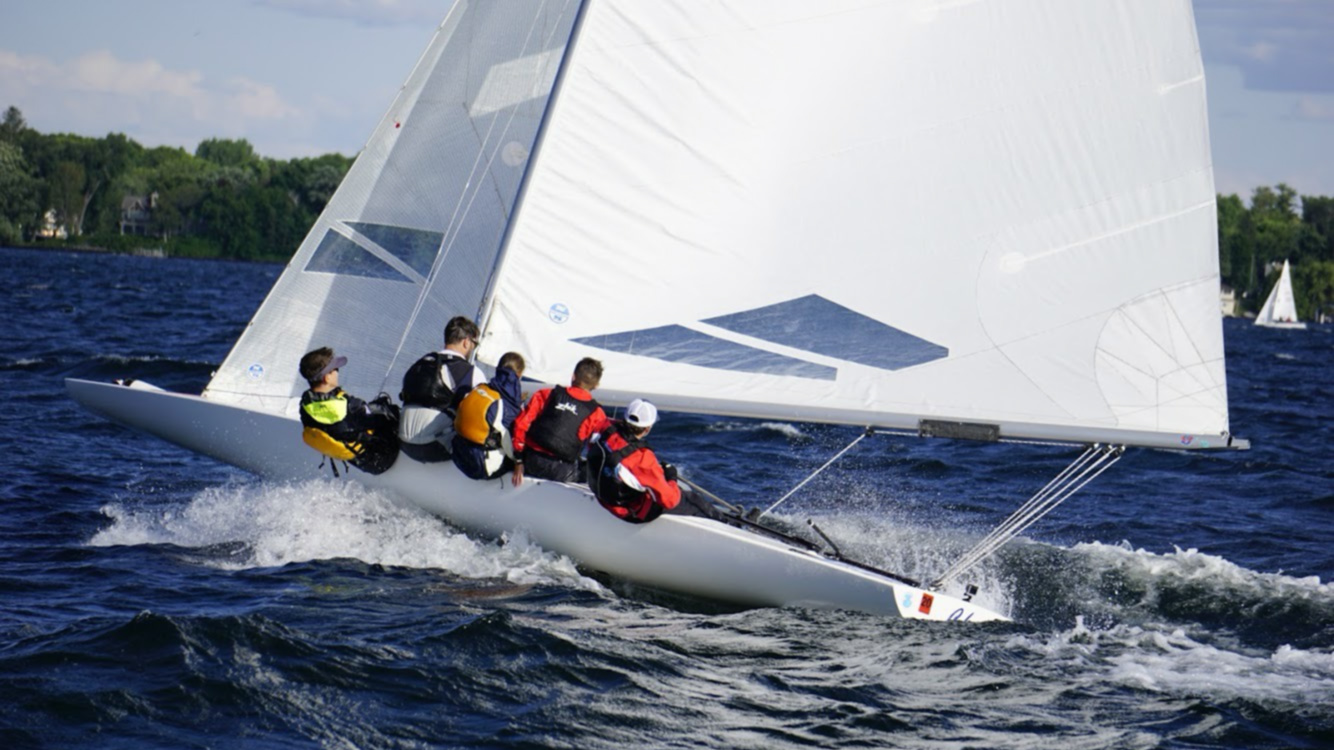
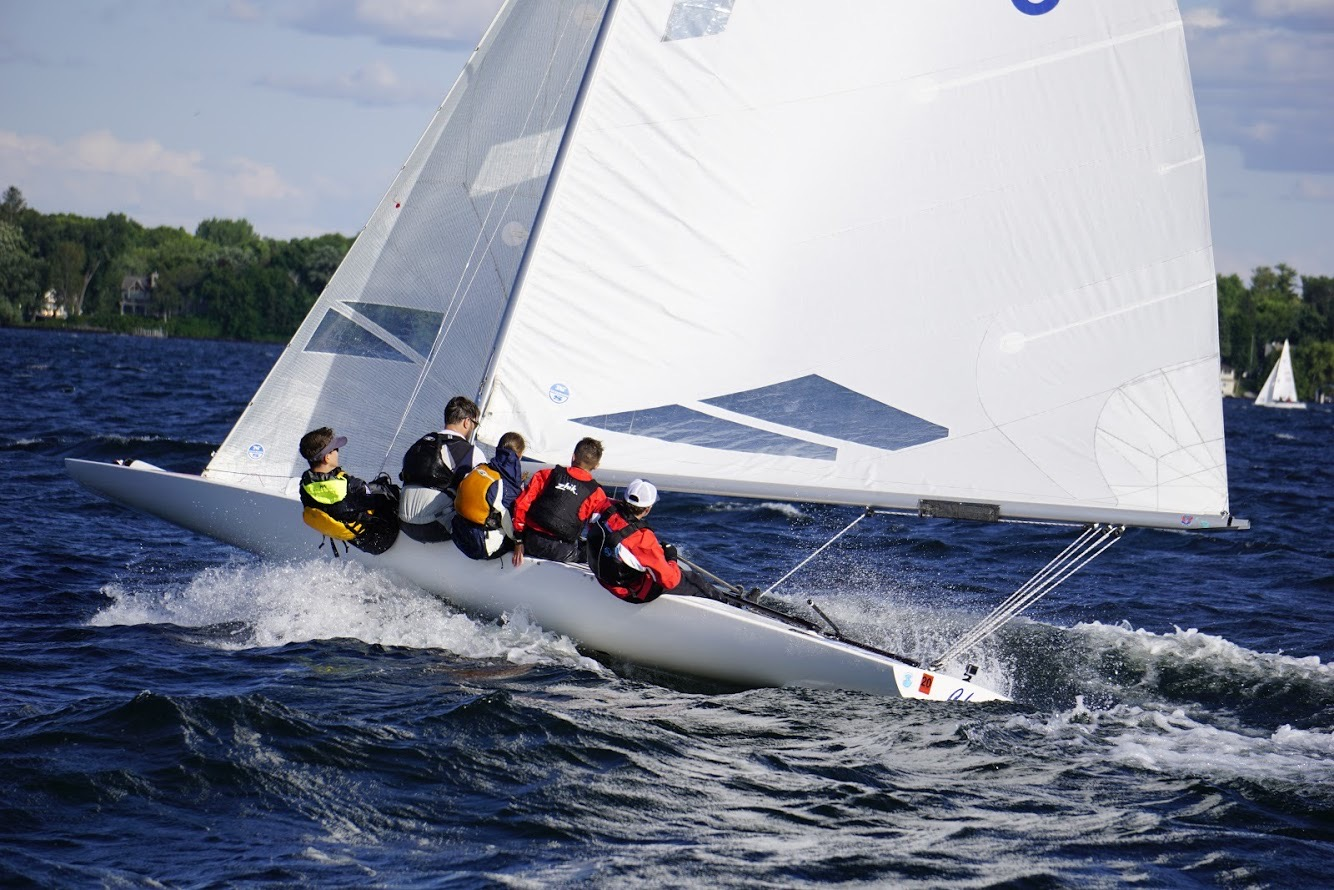
Changed images

diff --git a/index.html b/index.html
@@ -26,7 +26,7 @@
 </div>
 <div class="slideshow">
   <img class="mySlides" src="chaos.jpg">
-  <img class="mySlides" src="volvostreet.jpg">
+  <img class="mySlides" src="flipped.jpg">
   <img class="mySlides" src="xinlands.jpg">
   <img class="mySlides" src="audi.jpg">
 </div>
